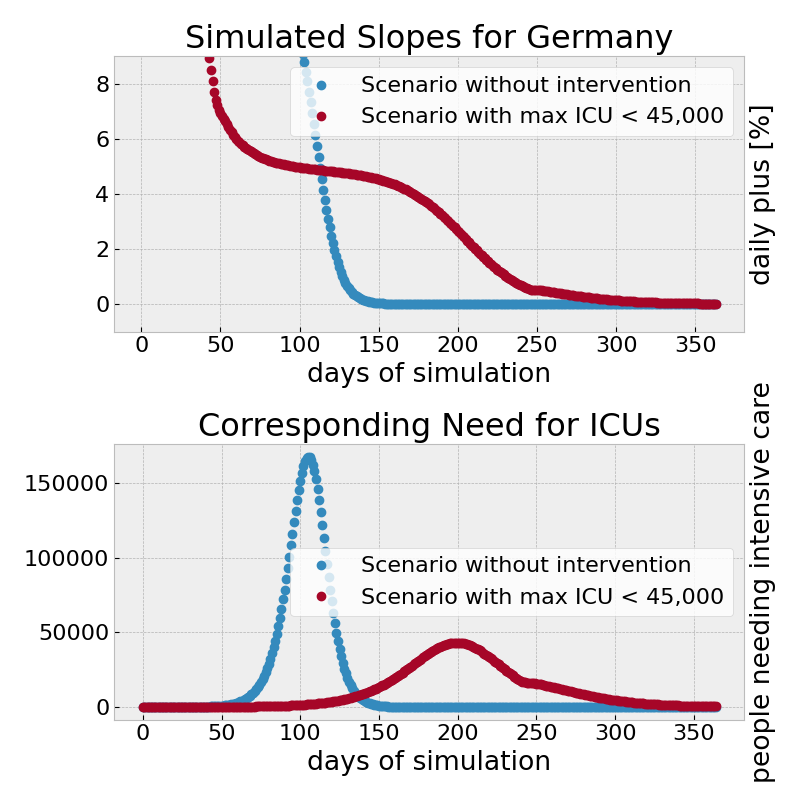
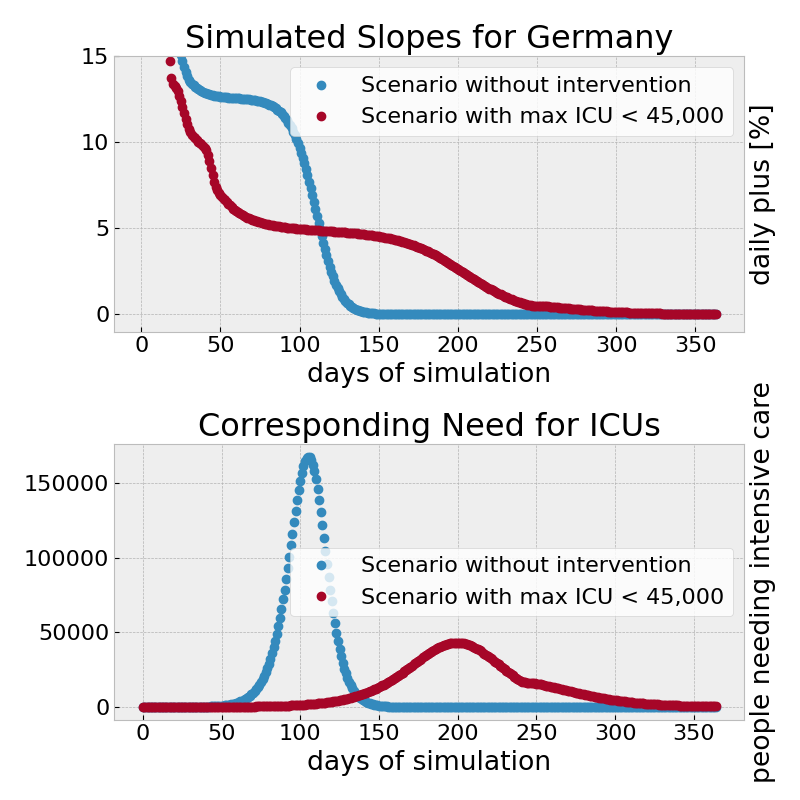
now 7 days average

diff --git a/ghc_helpers.py b/ghc_helpers.py
@@ -17,14 +17,15 @@ def getthelogslope(npa):
     slopes = lggda[1:] - lggda[:-1]
     # use an average
     avgslopes = .5*(slopes[1:] + slopes[:-1])
-    fivedaysavrg = .2*(slopes[:-4] + slopes[1:-3] + slopes[2:-2]
-                       + slopes[3:-1] + slopes[4:])
-    fdl = fivedaysavrg.tolist()
+    svndaysavrg = 1/7*(slopes[:-6] + slopes[1:-5] + slopes[2:-4]
+                       + slopes[3:-3] + slopes[4:-2] + slopes[5:-1]
+                       + slopes[6:])
+    # fdl = svndaysavrg.tolist()
     # extend with NaN to align with the data in the plots
-    nfdl = [np.NaN, np.NaN]
-    nfdl.extend(fdl)
-    nfdl.extend([np.NaN, np.NaN])
-    return slopes, avgslopes, fivedaysavrg
+    # nfdl = [np.NaN, np.NaN]
+    # nfdl.extend(fdl)
+    # nfdl.extend([np.NaN, np.NaN])
+    return slopes, avgslopes, svndaysavrg
 
 
 def getthepercincreases(npa):
@@ -33,17 +34,19 @@ def getthepercincreases(npa):
     slopes = (npa[1:] - npa[:-1])/npa[:-1]*100
     # use an average
     avgslopes = .5*(slopes[1:] + slopes[:-1])
-    fivedaysavrg = .2*(slopes[:-4] + slopes[1:-3] + slopes[2:-2]
-                       + slopes[3:-1] + slopes[4:])
-    fdl = fivedaysavrg.tolist()
+    # fivedaysavrg = .2*(slopes[:-4] + slopes[1:-3] + slopes[2:-2]
+    #                    + slopes[3:-1] + slopes[4:])
+    svndaysavrg = 1/7*(slopes[:-6] + slopes[1:-5] + slopes[2:-4]
+                       + slopes[3:-3] + slopes[4:-2] + slopes[5:-1]
+                       + slopes[6:])
+    fdl = svndaysavrg.tolist()
     # extend with NaN to align with the data in the plots
-    nfdl = [np.NaN, np.NaN]
+    nfdl = [np.NaN]*6
     nfdl.extend(fdl)
-    nfdl.extend([np.NaN, np.NaN])
-    return slopes, avgslopes, fivedaysavrg
+    return slopes, avgslopes, np.array(nfdl)
 
 
-def getxranges(datarray, init=100, factor=3):
+def getxranges(datarray, init=1000, factor=3):
     idxl = []
     cmrgn = init
     while datarray[-1] > cmrgn:
@@ -73,14 +76,14 @@ def plotlogslops(pddf, countryl, ncols=3, fignum=100, dpi=100,
         slopes, tdavrg, fdavrg = getthepercincreases(ggda)
         ax.plot(slopes[-plotdays:], 'o', label='daily value')
         ax.plot(tdavrg[-plotdays:], 'o', label='two days average')
-        ax.plot(fdavrg[-plotdays:], label='five days average')
+        ax.plot(fdavrg[-plotdays:], label='seven days average')
 
         ax.set_xlim(xmin=-2.45, xmax=plotdays+2.45)
         # ymax, ymin = .315, -.015
-        ymax, ymin = 9, -1
+        ymax, ymin = 11, -1
         ax.set_ylim(ymin=ymin, ymax=ymax)
 
-        xranges = getxranges(ggda[-ndays:], init=100, factor=3)
+        xranges = getxranges(ggda[-ndays:], init=1000, factor=3)
         xranges.append(ndays+1)
         lstxmin = 0
         for kk, xrng in enumerate(xranges):
@@ -106,7 +109,7 @@ def plotlogslops(pddf, countryl, ncols=3, fignum=100, dpi=100,
     ax = cfig.add_subplot(nrows, ncols, idx+2)
     ax.plot([1, ndays], [8, 0], 'o', label='daily value')
     ax.plot([1, ndays], [6, 2], 'o', label='two days average')
-    ax.plot([1, ndays], [7, 3], label='five days average')
+    ax.plot([1, ndays], [7, 1], label='seven days average')
     ax.plot(np.NaN, '.', label=today)
     # ymax, ymin = .525, -.025
     ymax, ymin = 9, -1
@@ -120,18 +123,18 @@ def plotlogslops(pddf, countryl, ncols=3, fignum=100, dpi=100,
     # plt.axhspan(-.025, .525, xmin=0.45, xmax=.615, alpha=.1)
     # plt.axhspan(-.025, .525, xmin=0.615, xmax=.8, alpha=.15)
     # plt.axhspan(-.025, .525, xmin=0.8, xmax=1., alpha=.2)
-    plt.axhspan(-1, 9, xmin=0.275, xmax=.45, alpha=.05)
-    plt.axhspan(-1, 9, xmin=0.45, xmax=.615, alpha=.1)
-    plt.axhspan(-1, 9, xmin=0.615, xmax=.8, alpha=.15)
-    plt.axhspan(-1, 9, xmin=0.8, xmax=1., alpha=.2)
+    plt.axhspan(-1, 11, xmin=0.275, xmax=.45, alpha=.05)
+    plt.axhspan(-1, 11, xmin=0.45, xmax=.615, alpha=.1)
+    plt.axhspan(-1, 11, xmin=0.615, xmax=.8, alpha=.15)
+    plt.axhspan(-1, 11, xmin=0.8, xmax=1., alpha=.2)
     bbstl = {'facecolor': 'white', 'alpha': .5}
-    ax.text(.6, .8, 'total casualties', transform=ax.transAxes,
+    ax.text(.6, .8, 'total cases', transform=ax.transAxes,
             bbox=bbstl)
-    ax.text(1, 0.02, '<100 \n    cases', bbox=bbstl)
-    ax.text(14/50*ndays, 0.07, '>100', bbox=bbstl)
-    ax.text(24/50*ndays, 0.07, '>300', bbox=bbstl)
-    ax.text(33/50*ndays, 0.07, '>900', bbox=bbstl)
-    ax.text(43/50*ndays, 0.07, '>2700', bbox=bbstl)
+    ax.text(1, 0.02, '<1000 \n    cases', bbox=bbstl)
+    ax.text(14/50*ndays, 0.07, '>1000', bbox=bbstl)
+    ax.text(24/50*ndays, 0.07, '>3000', bbox=bbstl)
+    ax.text(33/50*ndays, 0.07, '>9000', bbox=bbstl)
+    ax.text(43/50*ndays, 0.07, '>27000', bbox=bbstl)
     ax.set_title('Legend')
     plt.tight_layout()
     if figfile is not None:
@@ -158,12 +161,12 @@ def lmonthslops(pddf, countryl, ncols=3, fignum=100, dpi=100,
         slopes, tdavrg, fdavrg = getthepercincreases(ggda)
         ax.plot(slopes[-plotdays:], 'o', label='daily value')
         ax.plot(tdavrg[-plotdays:], 'o', label='two days average')
-        ax.plot(fdavrg[-plotdays:], label='five days average')
+        ax.plot(fdavrg[-plotdays:], label='seven days average')
 
         ax.set_xlim(xmin=-2.45, xmax=plotdays+2.45)
-        ymax, ymin = 9, -1
+        ymax, ymin = 11, -1
         ax.set_ylim(ymin=ymin, ymax=ymax)
-        ax.set_yticks([0, 4, 8])
+        ax.set_yticks([0, 5, 10])
 
         if idx >= (nrows-1)*ncols:
             ax.set_xlabel('the last {0} days'.format(plotdays))
@@ -176,9 +179,12 @@ def lmonthslops(pddf, countryl, ncols=3, fignum=100, dpi=100,
                 bbox={'facecolor': 'white', 'alpha': .5})
         ax.set_title(mycountry)
     ax = cfig.add_subplot(nrows, ncols, idx+2)
-    ax.plot([1, plotdays], [.5, 0], 'o', label='daily value')
-    ax.plot([1, plotdays], [.45, .05], 'o', label='two days average')
-    ax.plot([1, plotdays], [.475, .025], label='five days average')
+    # ax.plot([1, plotdays], [.5, 0], 'o', label='daily value')
+    # ax.plot([1, plotdays], [.45, .05], 'o', label='two days average')
+    # ax.plot([1, plotdays], [.475, .025], label='five days average')
+    ax.plot([1, ndays], [8, 0], 'o', label='daily value')
+    ax.plot([1, ndays], [6, 2], 'o', label='two days average')
+    ax.plot([1, ndays], [7, 1], label='seven days average')
     ax.plot(np.NaN, '.', label=today)
     # ymax, ymin = .525, -.025
     ymax, ymin = 9, -1
@@ -189,7 +195,7 @@ def lmonthslops(pddf, countryl, ncols=3, fignum=100, dpi=100,
     ax.set_ylabel('daily plus [%]')
     ax.yaxis.set_label_position("right")
     bbstl = {'facecolor': 'white', 'alpha': .5}
-    ax.text(.375, .8, 'last month casualties', transform=ax.transAxes,
+    ax.text(.375, .8, 'last month cases', transform=ax.transAxes,
             bbox=bbstl)
     ax.set_title('Legend')
     plt.tight_layout()

diff --git a/deathgrowthrates.py b/deathgrowthrates.py
@@ -2,7 +2,7 @@ import numpy as np
 import pandas as pd
 import matplotlib.pyplot as plt
 import matplotlib
-from ghc_helpers import plotlogslops, getthelogslope, lmonthslops
+from ghc_helpers import plotlogslops, lmonthslops
 from ghc_helpers import getthepercincreases
 
 font = {'family': 'normal',
@@ -18,10 +18,11 @@ pathd = 'data/csse_covid_19_data/csse_covid_19_time_series/' +\
         'time_series_covid19_deaths_global.csv'
 pathc = 'data/csse_covid_19_data/csse_covid_19_time_series/' +\
         'time_series_covid19_confirmed_global.csv'
-deaths = pd.read_csv(pathd)
+# deaths = pd.read_csv(pathd)
+deaths = pd.read_csv(pathc)
 
 somecntrl = ['Argentina', 'Australia', 'Austria',
-             'Brazil', 'China', 'Croatia',
+             'Belgium', 'Brazil', 'China',
              'Denmark', 'Egypt', 'Greece',
              'India', 'Netherlands', 'Russia',
              'Switzerland', 'United Kingdom']
@@ -96,7 +97,7 @@ icusnoi = covidsimdatanoi[' ICU'].values
 ax.plot(covisimnoi, 'o', label='Scenario without intervention')
 ax.plot(covisim, 'o', label='Scenario with max ICU < 45,000')
 # ax.set_ylim(ymin=-.05, ymax=.5)
-ax.set_ylim(ymin=-1, ymax=9)
+ax.set_ylim(ymin=-1, ymax=15)
 ax.legend(facecolor='white')
 ax.set_title('Simulated Slopes for Germany')
 ax.set_ylabel('daily plus [%]')
